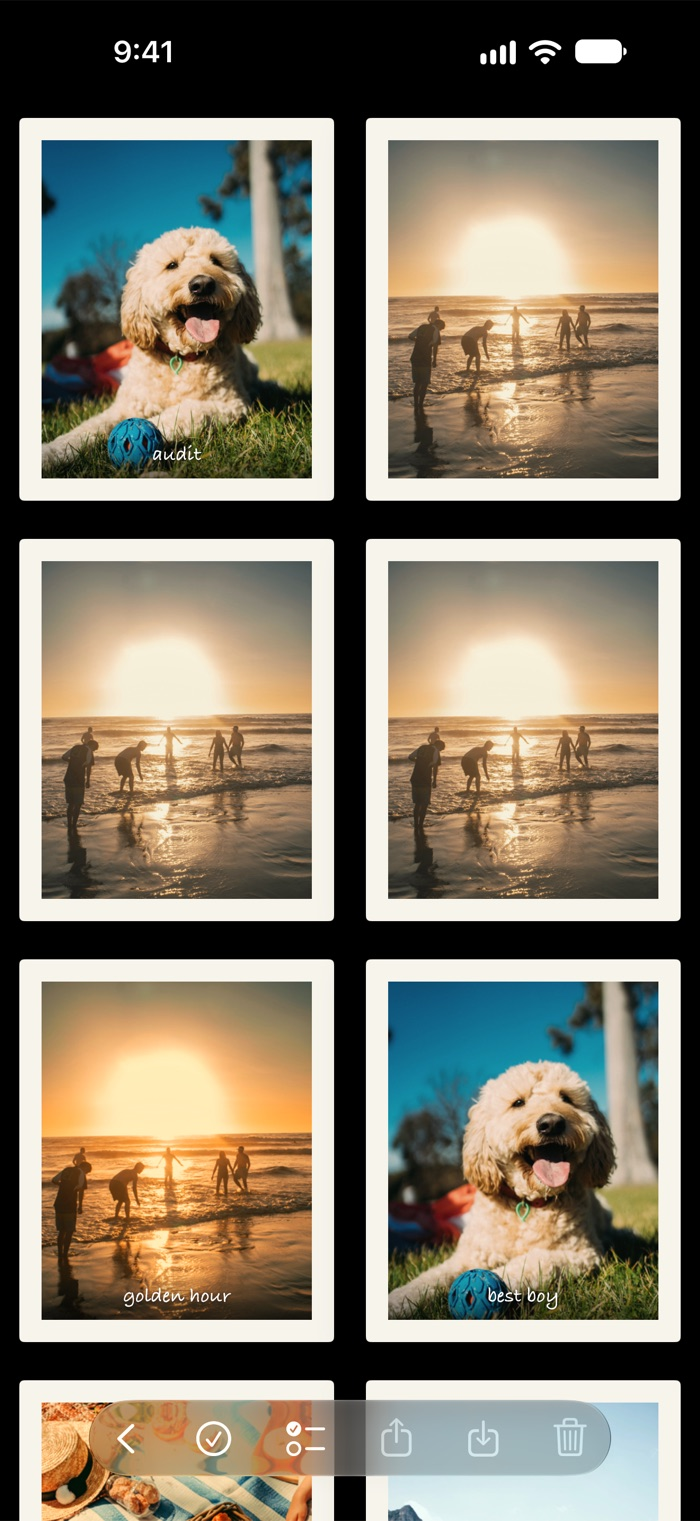
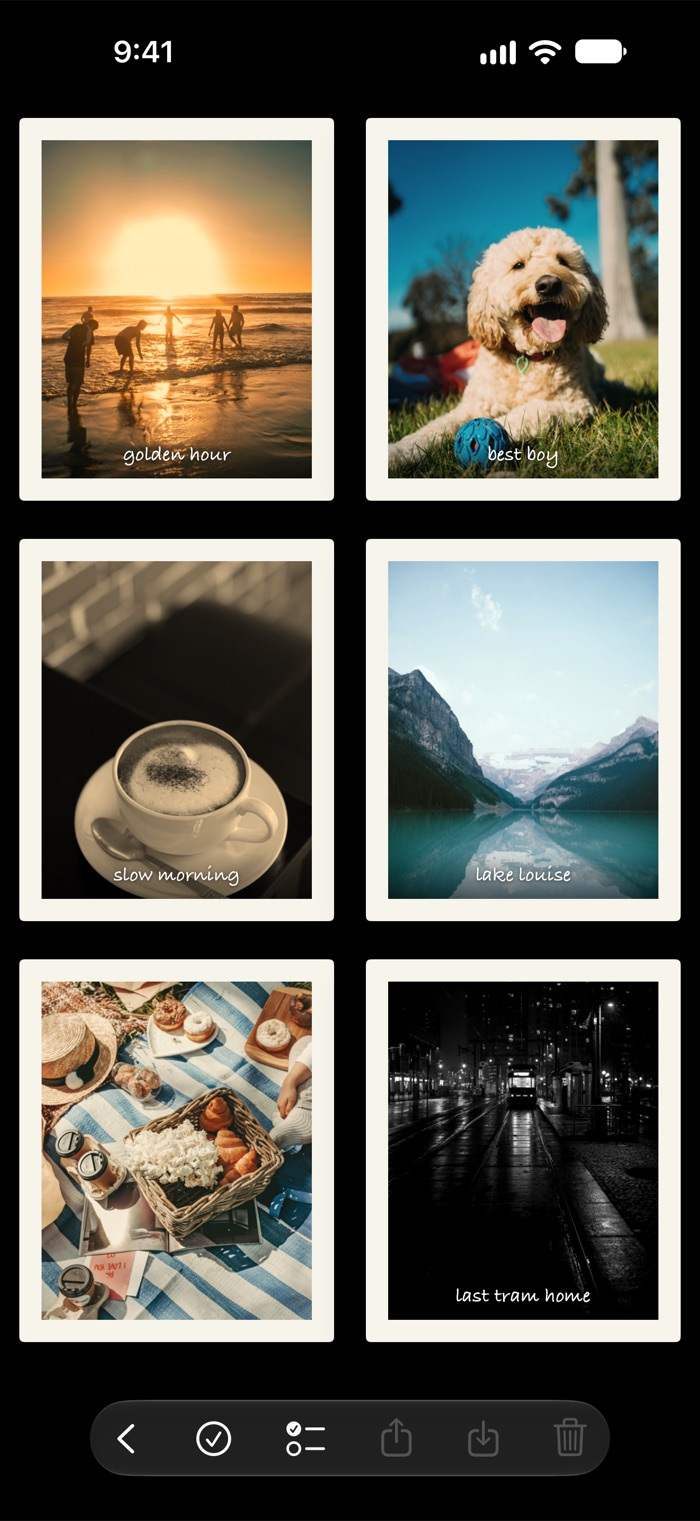
App page: a gallery of six different prints; Five film styles

diff --git a/app.html b/app.html
@@ -133,7 +133,7 @@
 <section class="white" id="films">
   <div class="wrap">
     <div class="head center reveal">
-      <span class="eyebrow">Five films</span>
+      <span class="eyebrow">Five film styles</span>
       <h2>Pick a look before you shoot.</h2>
       <p class="lead">Turn the dial and the viewfinder changes live, so what you see is what prints.</p>
     </div>
